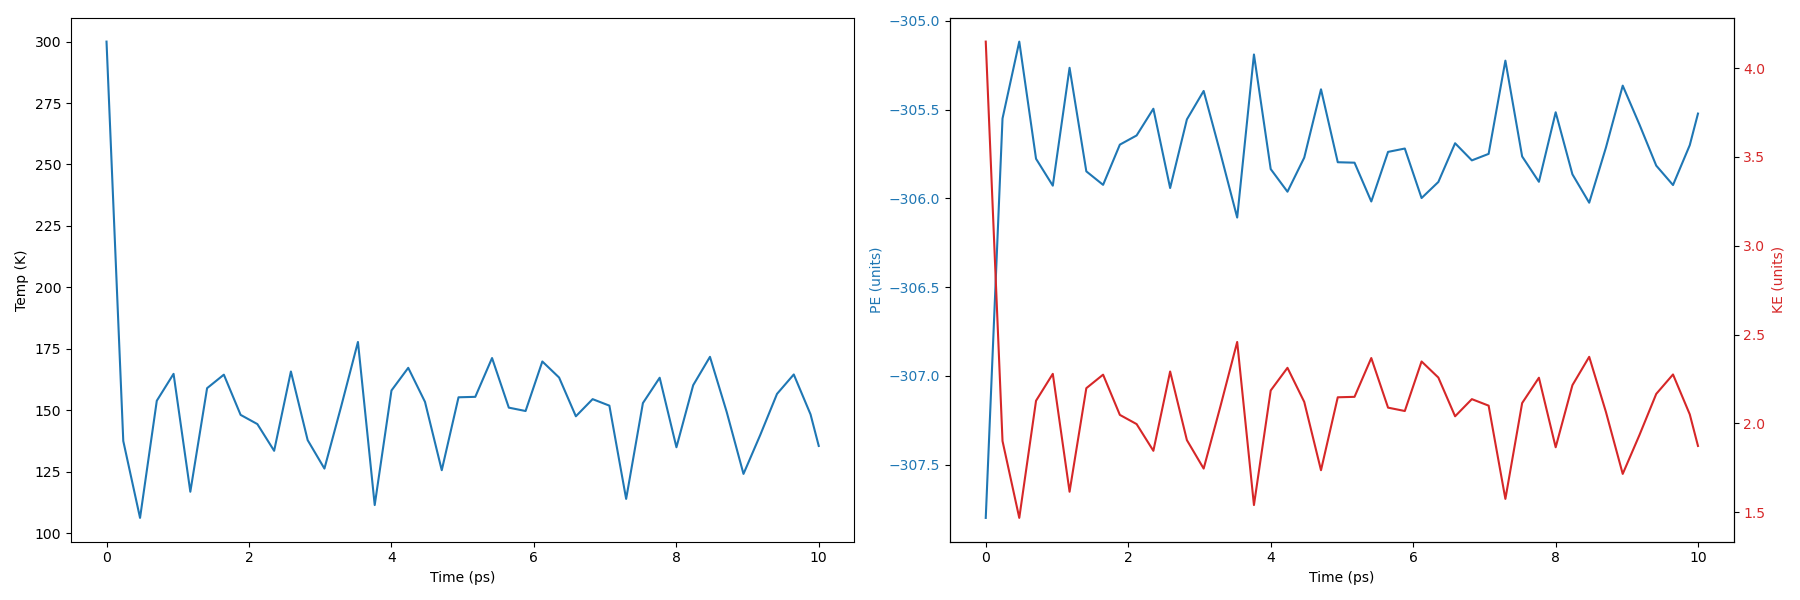
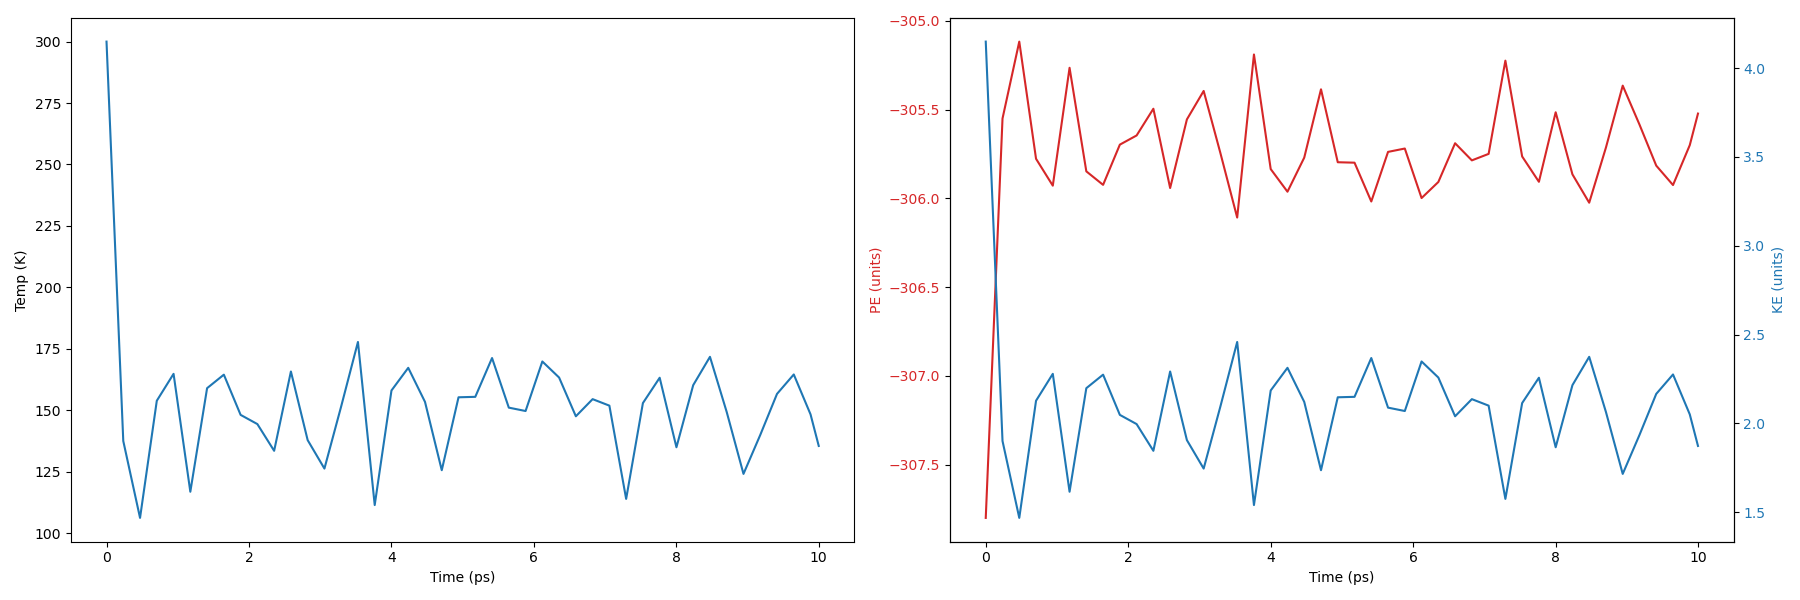
test

diff --git a/Lab4/mdworkflow.py b/Lab4/mdworkflow.py
@@ -119,15 +119,15 @@ def md_analyze_timestep(total_time, timestep_smallest, timestep_largest, num_run
         ax2[0].set_xlabel('Time (ps)')
         ax2[0].set_ylabel('Temp (K)')
 
-        ax2[1].plot(simtime*timestep, pe, color='tab:blue')
+        ax2[1].plot(simtime*timestep, pe, color='tab:red')
         ax2[1].set_xlabel('Time (ps)')
-        ax2[1].set_ylabel('PE (units)', color='tab:blue') #change energy units
-        ax2[1].tick_params(axis='y', labelcolor='tab:blue')
+        ax2[1].set_ylabel('PE (units)', color='tab:red') #change energy units
+        ax2[1].tick_params(axis='y', labelcolor='tab:red')
 
         ax3 = ax2[1].twinx()
-        ax3.plot(simtime*timestep, ke, color='tab:red')
-        ax3.set_ylabel('KE (units)', color='tab:red') #change energy units
-        ax3.tick_params(axis='y', labelcolor='tab:red')
+        ax3.plot(simtime*timestep, ke, color='tab:blue')
+        ax3.set_ylabel('KE (units)', color='tab:blue') #change energy units
+        ax3.tick_params(axis='y', labelcolor='tab:blue')
 
         fig2.tight_layout()
         fig2.savefig(savepath + 'energy.png')
